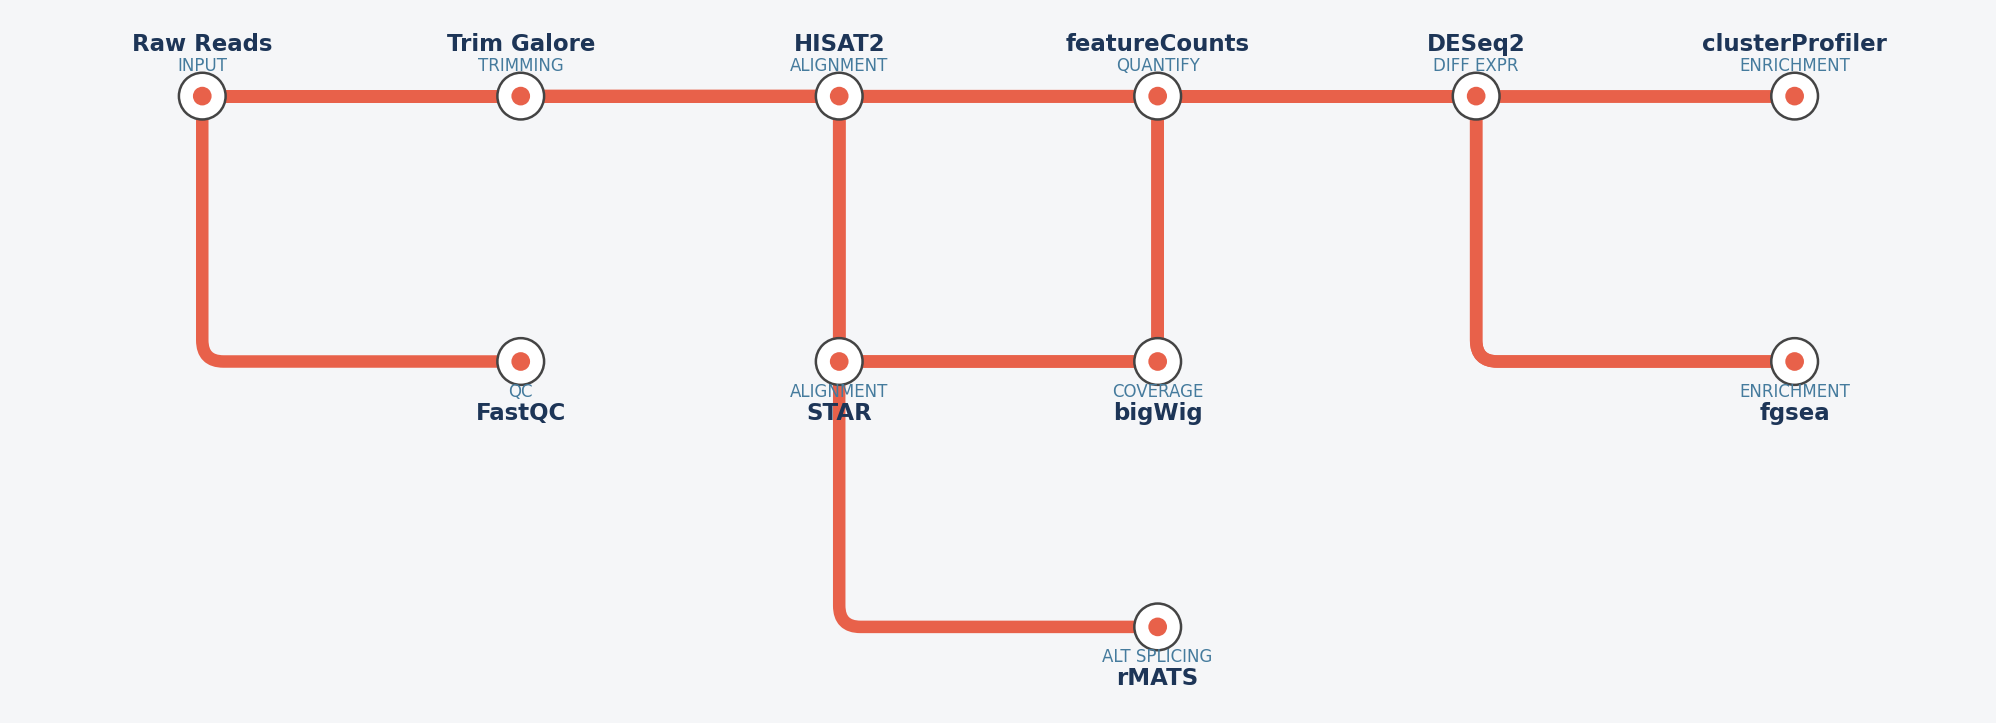
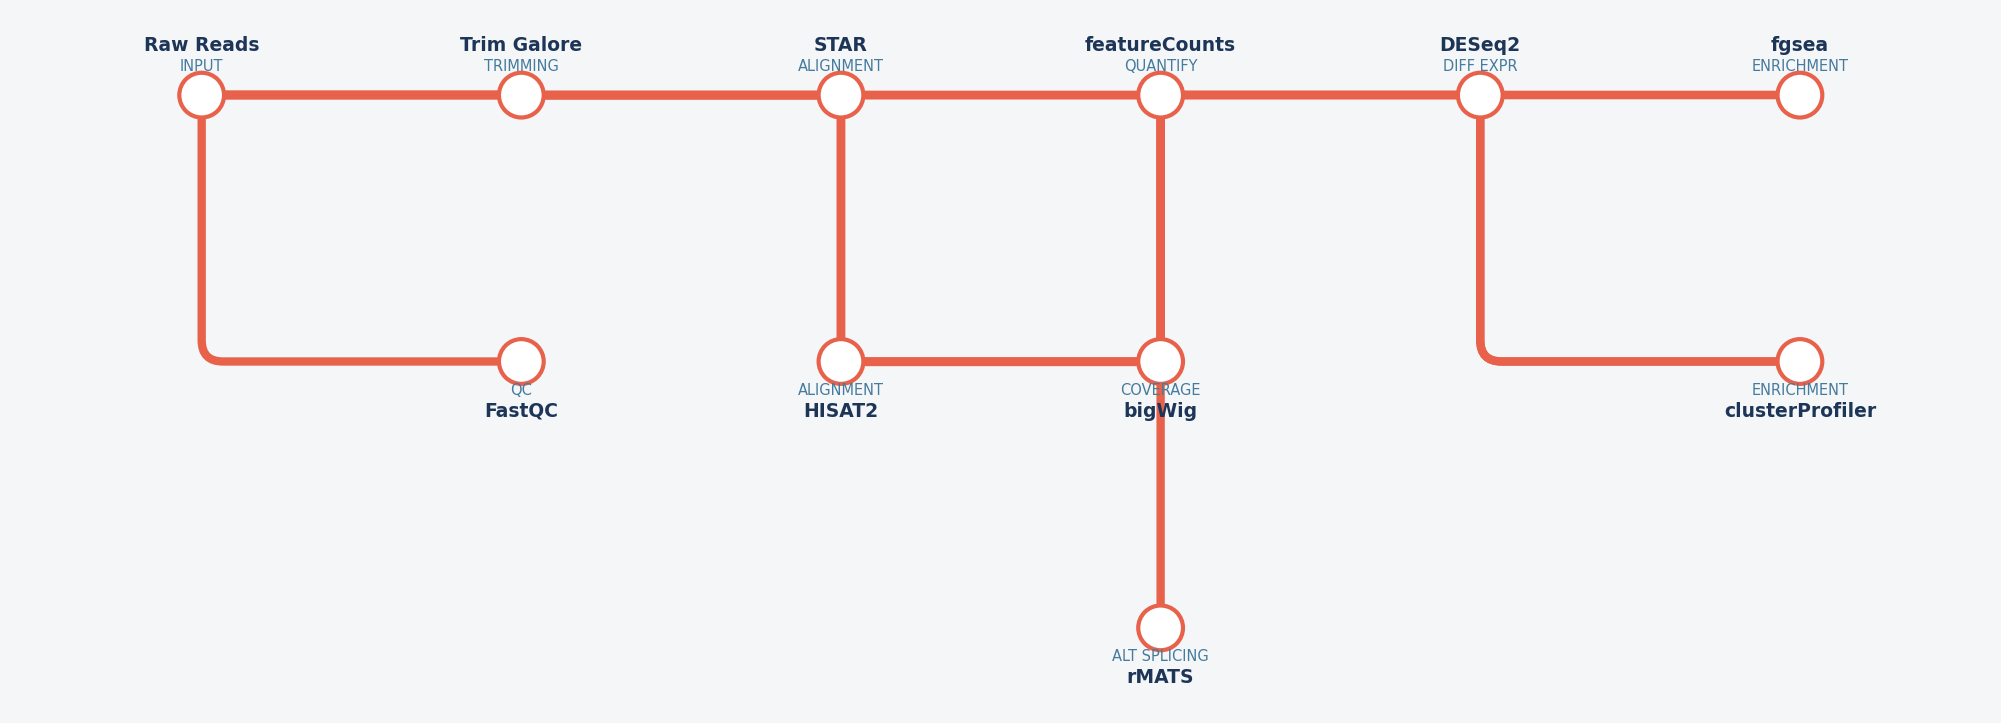
Align defaults with animated example style; replace branching examples
Diagram defaults updated to match the nf-metro visual style:
  line_width       6.0  → 4.0
  track_spacing    0.20 → 0.09
  station_radius   0.22 → 0.21
  label_font       11   → 9
  sub_font         8    → 7
  station_interchange_rect False → True

LIGHT theme updated to remove inner dot and use colored ring:
  station_dot          True  → False
  station_colored_edge False → True
  station_edge         #444  → #555555
  station_edge_width   1.2   → 2.0

_make_animated.py simplified — redundant overrides removed; only
background="#f5f6f8" and line_width=3.5 remain explicit.

Replace branching RNA-seq pipeline examples with clean linear pipelines:
  snakemake → WGS variant calling (FastQC→Trimmomatic→BWA→SAMtools→
              Picard→GATK→SnpEff)
  nextflow  → ChIP-seq (FastQC→TrimGalore→Bowtie2→SAMtools→Picard→
              MACS2→deepTools), using realistic p0/p1/... format with
              skip_nodes=["p0"] to drop the Channel.fromPath source node

Update tests to reflect new defaults (no inner dot → 1 circle/station;
auto-grow test sets station_interchange_rect=False to get circles).

https://claude.ai/code/session_01R84pBvMaTTxxxeY4Y1tWpK

diff --git a/examples/example_snakemake.py b/examples/example_snakemake.py
@@ -1,4 +1,4 @@
-"""Bulk RNA-seq Snakemake workflow → metroplot.
+"""WGS variant-calling Snakemake workflow → metroplot.
 
 Recommended workflow
 --------------------
@@ -32,47 +32,42 @@ from metroplot import from_mermaid
 # (or: from metroplot import from_mermaid_file; d = from_mermaid_file("dag.mmd", ...))
 MERMAID = """
 flowchart LR
-    trim_galore --> fastqc_trim
-    trim_galore --> star_align
-    star_align --> samtools_sort
-    samtools_sort --> featurecounts
-    featurecounts --> deseq2
-    fastqc_raw --> multiqc
-    fastqc_trim --> multiqc
-    deseq2 --> multiqc
+    fastqc --> trimmomatic
+    trimmomatic --> bwa_mem
+    bwa_mem --> samtools_sort
+    samtools_sort --> mark_duplicates
+    mark_duplicates --> haplotype_caller
+    haplotype_caller --> snpeff
 """
 
 d = from_mermaid(
     MERMAID,
-    line_name="Bulk RNA-seq",
+    line_name="WGS Variant Calling",
     color="#1f2a44",
     background="#f5f6f8",
     column_spacing=2.5,
-    branch_spacing=2.5,
     label_overrides={
-        "fastqc_raw":    "FastQC",
-        "trim_galore":   "Trim Galore",
-        "fastqc_trim":   "FastQC",
-        "star_align":    "STAR",
-        "samtools_sort": "SAMtools",
-        "featurecounts": "featureCounts",
-        "deseq2":        "DESeq2",
-        "multiqc":       "MultiQC",
+        "fastqc":           "FastQC",
+        "trimmomatic":      "Trimmomatic",
+        "bwa_mem":          "BWA MEM",
+        "samtools_sort":    "SAMtools",
+        "mark_duplicates":  "Picard",
+        "haplotype_caller": "GATK",
+        "snpeff":           "SnpEff",
     },
     sub_overrides={
-        "fastqc_raw":    "RAW QC",
-        "trim_galore":   "TRIMMING",
-        "fastqc_trim":   "TRIM QC",
-        "star_align":    "ALIGNMENT",
-        "samtools_sort": "SORT/INDEX",
-        "featurecounts": "QUANTIFY",
-        "deseq2":        "DIFF EXPR",
-        "multiqc":       "REPORT",
+        "fastqc":           "QUALITY CONTROL",
+        "trimmomatic":      "TRIMMING",
+        "bwa_mem":          "ALIGNMENT",
+        "samtools_sort":    "SORT & INDEX",
+        "mark_duplicates":  "MARK DUPLICATES",
+        "haplotype_caller": "VARIANT CALLING",
+        "snpeff":           "ANNOTATION",
     },
     legend_loc=None,
 )
 
-fig, ax = plt.subplots(figsize=(18, 5))
+fig, ax = plt.subplots(figsize=(16, 3))
 d.render(ax)
 fig.savefig("graphics/snakemake_example.png", dpi=150, bbox_inches="tight")
 plt.close(fig)

diff --git a/examples/example_nextflow.py b/examples/example_nextflow.py
@@ -1,4 +1,4 @@
-"""nf-core-style Nextflow pipeline → metroplot.
+"""ChIP-seq Nextflow pipeline → metroplot.
 
 Recommended workflow
 --------------------
@@ -40,48 +40,51 @@ MERMAID = """
 flowchart TD
     p0((Channel.fromPath))
     p1[FASTQC]
-    p2[FASTP]
-    p3[STAR]
-    p4[FEATURECOUNTS]
-    p5[RMATS]
-    p6[DESEQ2]
-    p7[MULTIQC]
+    p2[TRIM_GALORE]
+    p3[BOWTIE2]
+    p4[SAMTOOLS_SORT]
+    p5[PICARD_DEDUP]
+    p6[MACS2]
+    p7[DEEPTOOLS]
     p0 --> p1
-    p0 --> p2
+    p1 --> p2
     p2 --> p3
     p3 --> p4
-    p3 --> p5
-    p4 --> p6
-    p1 --> p7
+    p4 --> p5
+    p5 --> p6
     p6 --> p7
-    p5 --> p7
 """
 
 d = from_mermaid(
     MERMAID,
     skip_nodes=["p0"],          # drop the Channel.fromPath source node
-    line_name="RNA-seq",
+    line_name="ChIP-seq",
     color="#1f2a44",
     background="#f5f6f8",
     column_spacing=2.5,
-    branch_spacing=2.5,
-    # Nextflow bracket labels (FASTQC, FASTP, …) are used automatically;
-    # sub_overrides reference the p1/p2/… IDs from the Mermaid.
+    # Bracket labels (FASTQC, TRIM_GALORE, …) become display names automatically.
+    # label_overrides uses the p1/p2/... IDs to further rename if needed:
+    label_overrides={
+        "p2": "Trim Galore",
+        "p3": "Bowtie2",
+        "p4": "SAMtools",
+        "p5": "Picard",
+        "p7": "deepTools",
+    },
     sub_overrides={
         "p1": "QUALITY CONTROL",
-        "p2": "ADAPTER TRIMMING",
+        "p2": "TRIMMING",
         "p3": "ALIGNMENT",
-        "p4": "QUANTIFICATION",
-        "p5": "ALT SPLICING",
-        "p6": "DIFFERENTIAL EXPR",
-        "p7": "REPORT",
+        "p4": "SORT & INDEX",
+        "p5": "DEDUPLICATION",
+        "p6": "PEAK CALLING",
+        "p7": "COVERAGE",
     },
     legend_loc=None,
 )
 
-fig, ax = plt.subplots(figsize=(15, 5))
+fig, ax = plt.subplots(figsize=(16, 3))
 d.render(ax)
-plt.tight_layout()
-plt.savefig("graphics/nextflow_example.png", dpi=150, bbox_inches="tight")
+fig.savefig("graphics/nextflow_example.png", dpi=150, bbox_inches="tight")
 plt.close(fig)
 print("wrote graphics/nextflow_example.png")

diff --git a/tests/test_metroplot.py b/tests/test_metroplot.py
@@ -32,9 +32,9 @@ def test_render_creates_one_circle_per_station():
     d = _basic().line("main", "#111", [["a", "b", "c"]])
     ax = d.render()
     circles = [p for p in ax.patches if isinstance(p, Circle)]
-    # Each station gets an outer ring + inner dot (default "light" theme), so 2 per station.
+    # Default light theme: station_dot=False, so one circle per station.
     n_stations = len(d.stations)
-    assert len(circles) == n_stations * 2
+    assert len(circles) == n_stations
     plt.close("all")
 
 
@@ -104,7 +104,8 @@ def test_close_stations_warn():
 def test_station_radius_auto_grows_for_many_lines():
     """With many parallel lines, the rendered circle should be bigger than
     the user-specified station_radius so line endpoints stay hidden."""
-    d = Diagram(station_radius=0.10, track_spacing=0.20)
+    # station_interchange_rect=False forces circles so we can read the radius.
+    d = Diagram(station_radius=0.10, track_spacing=0.20, station_interchange_rect=False)
     d.station("a", 0, 0).station("b", 5, 0)
     for i in range(5):
         d.line(f"L{i}", "#000", [["a", "b"]])

diff --git a/_make_animated.py b/_make_animated.py
@@ -17,20 +17,9 @@ from metroplot.themes import LIGHT, PALETTES, LOGO_ORANGE
 _, BLUE, TEAL, NAVY = PALETTES["default"]
 ORANGE = LOGO_ORANGE
 
-# nf-metro style: white ring, colored edge for single-line, no inner dot
-theme = dataclasses.replace(
-    LIGHT,
-    background="#f5f6f8",
-    station_dot=False,
-    station_colored_edge=True,
-    station_edge="#555555",
-    station_edge_width=2.0,
-)
+theme = dataclasses.replace(LIGHT, background="#f5f6f8")
 
-d = Diagram(theme=theme, legend_loc="lower right",
-            line_width=3.5, track_spacing=0.09, station_radius=0.21,
-            station_interchange_rect=True,
-            label_font=9, sub_font=7)
+d = Diagram(theme=theme, legend_loc="lower right", line_width=3.5)
 
 # ── Pre-processing (shared trunk, going RIGHT) ────────────────────────────────
 d.station("fastq",       0,  0,  "FASTQ",           "RAW READS",      "above")

diff --git a/src/metroplot/_core.py b/src/metroplot/_core.py
@@ -59,19 +59,19 @@ class _SectionSpec:
 
 @dataclass
 class Diagram:
-    track_spacing: float = 0.20
-    station_radius: float = 0.22
+    track_spacing: float = 0.09
+    station_radius: float = 0.21
     station_linewidth: float = 2.5
-    line_width: float = 6.0
+    line_width: float = 4.0
     corner_radius: float = 0.20
-    label_font: int = 11
-    sub_font: int = 8
+    label_font: int = 9
+    sub_font: int = 7
     label_dy_main: float = 0.38
     label_dy_sub: float = 0.20
     legend_loc: str | None = None
     legend_font: int = 10
     auto_bend: bool = True
-    station_interchange_rect: bool = False
+    station_interchange_rect: bool = True
     theme: str | Theme = "light"
     stations: dict = field(default_factory=dict)
     lines: list = field(default_factory=list)

diff --git a/src/metroplot/themes.py b/src/metroplot/themes.py
@@ -103,11 +103,11 @@ LIGHT = Theme(
     name="light",
     background="none",
     station_fill="white",
-    station_edge="#444444",
-    station_edge_width=1.2,
-    station_dot=True,
+    station_edge="#555555",
+    station_edge_width=2.0,
+    station_dot=False,
     station_dot_ratio=0.40,
-    station_colored_edge=False,
+    station_colored_edge=True,
     label_color="#1d3557",
     sub_color="#457b9d",
     glow=False,
